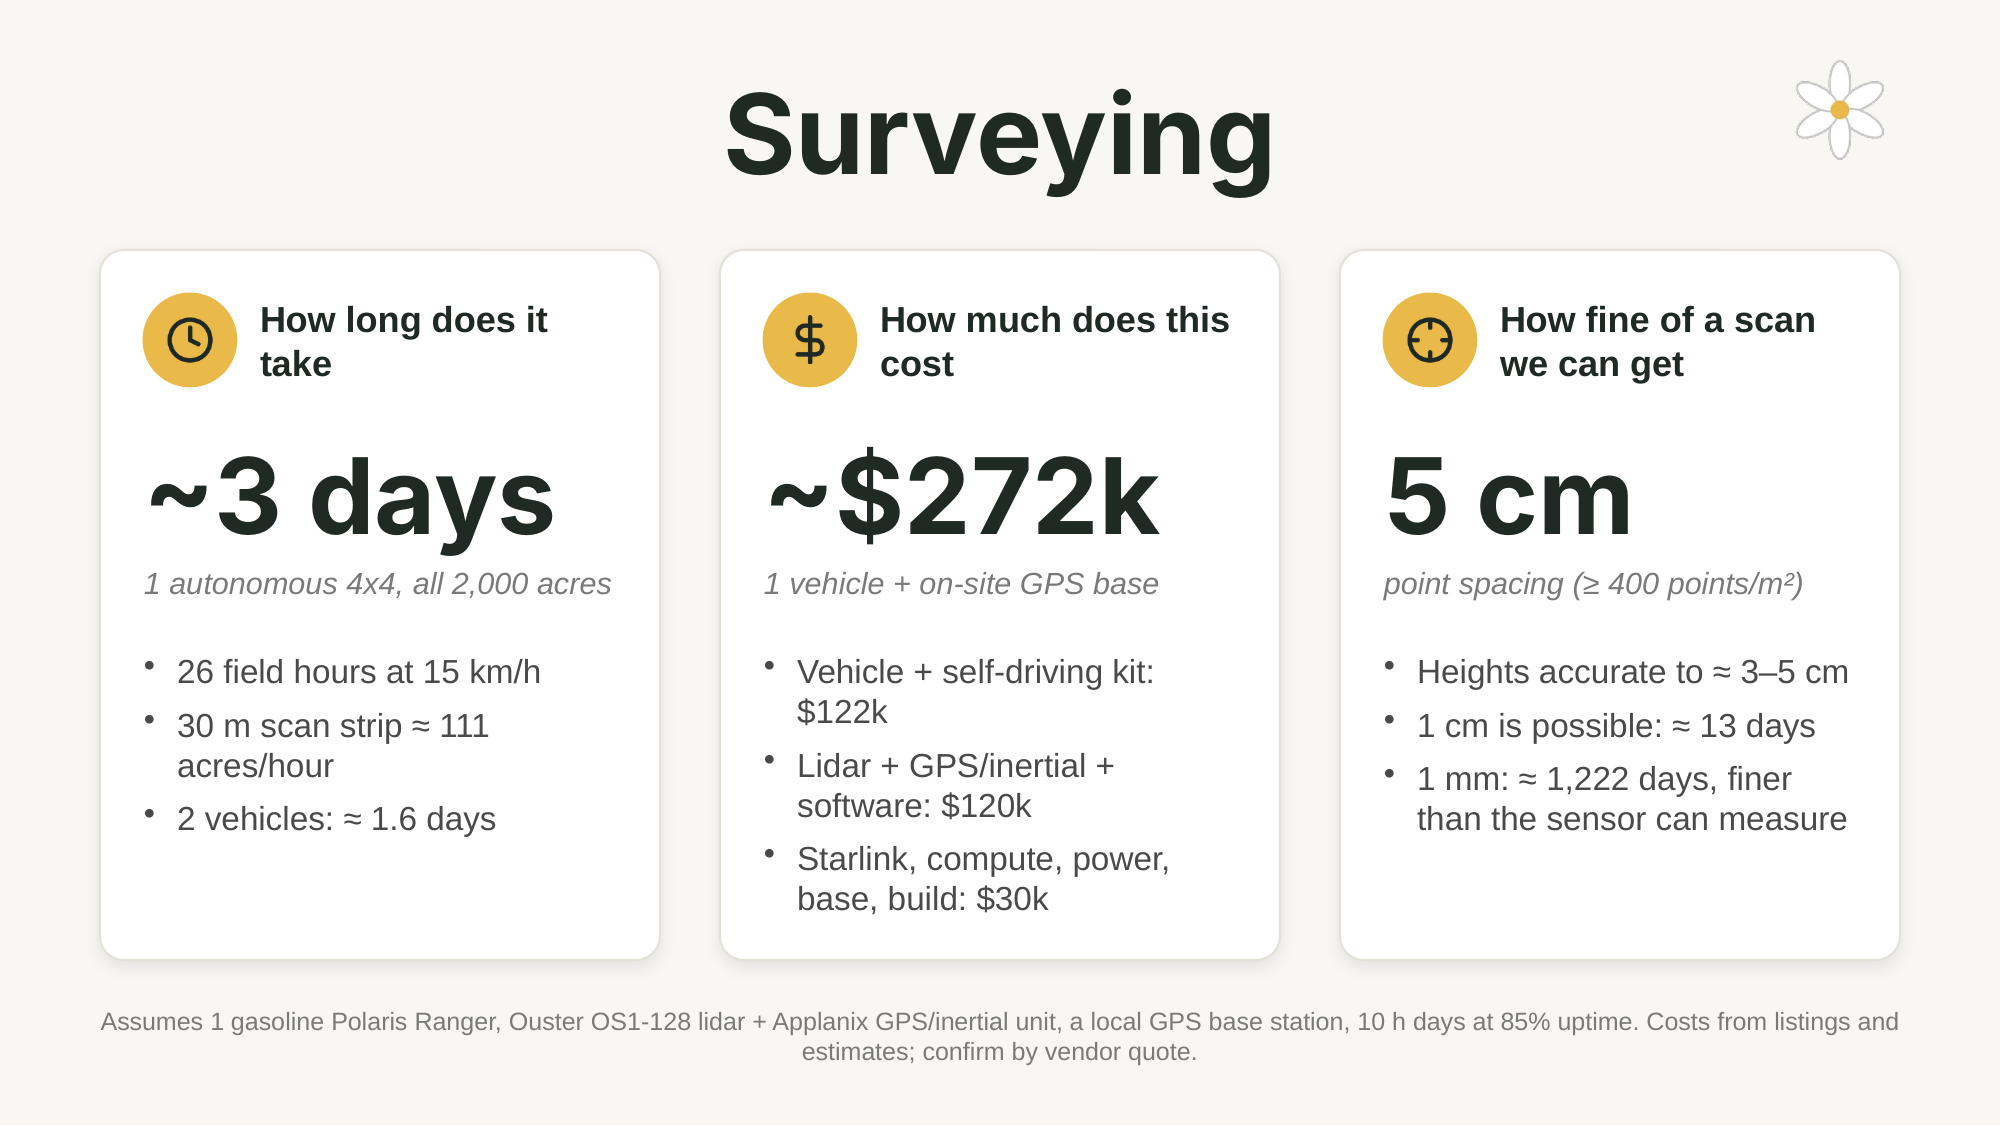
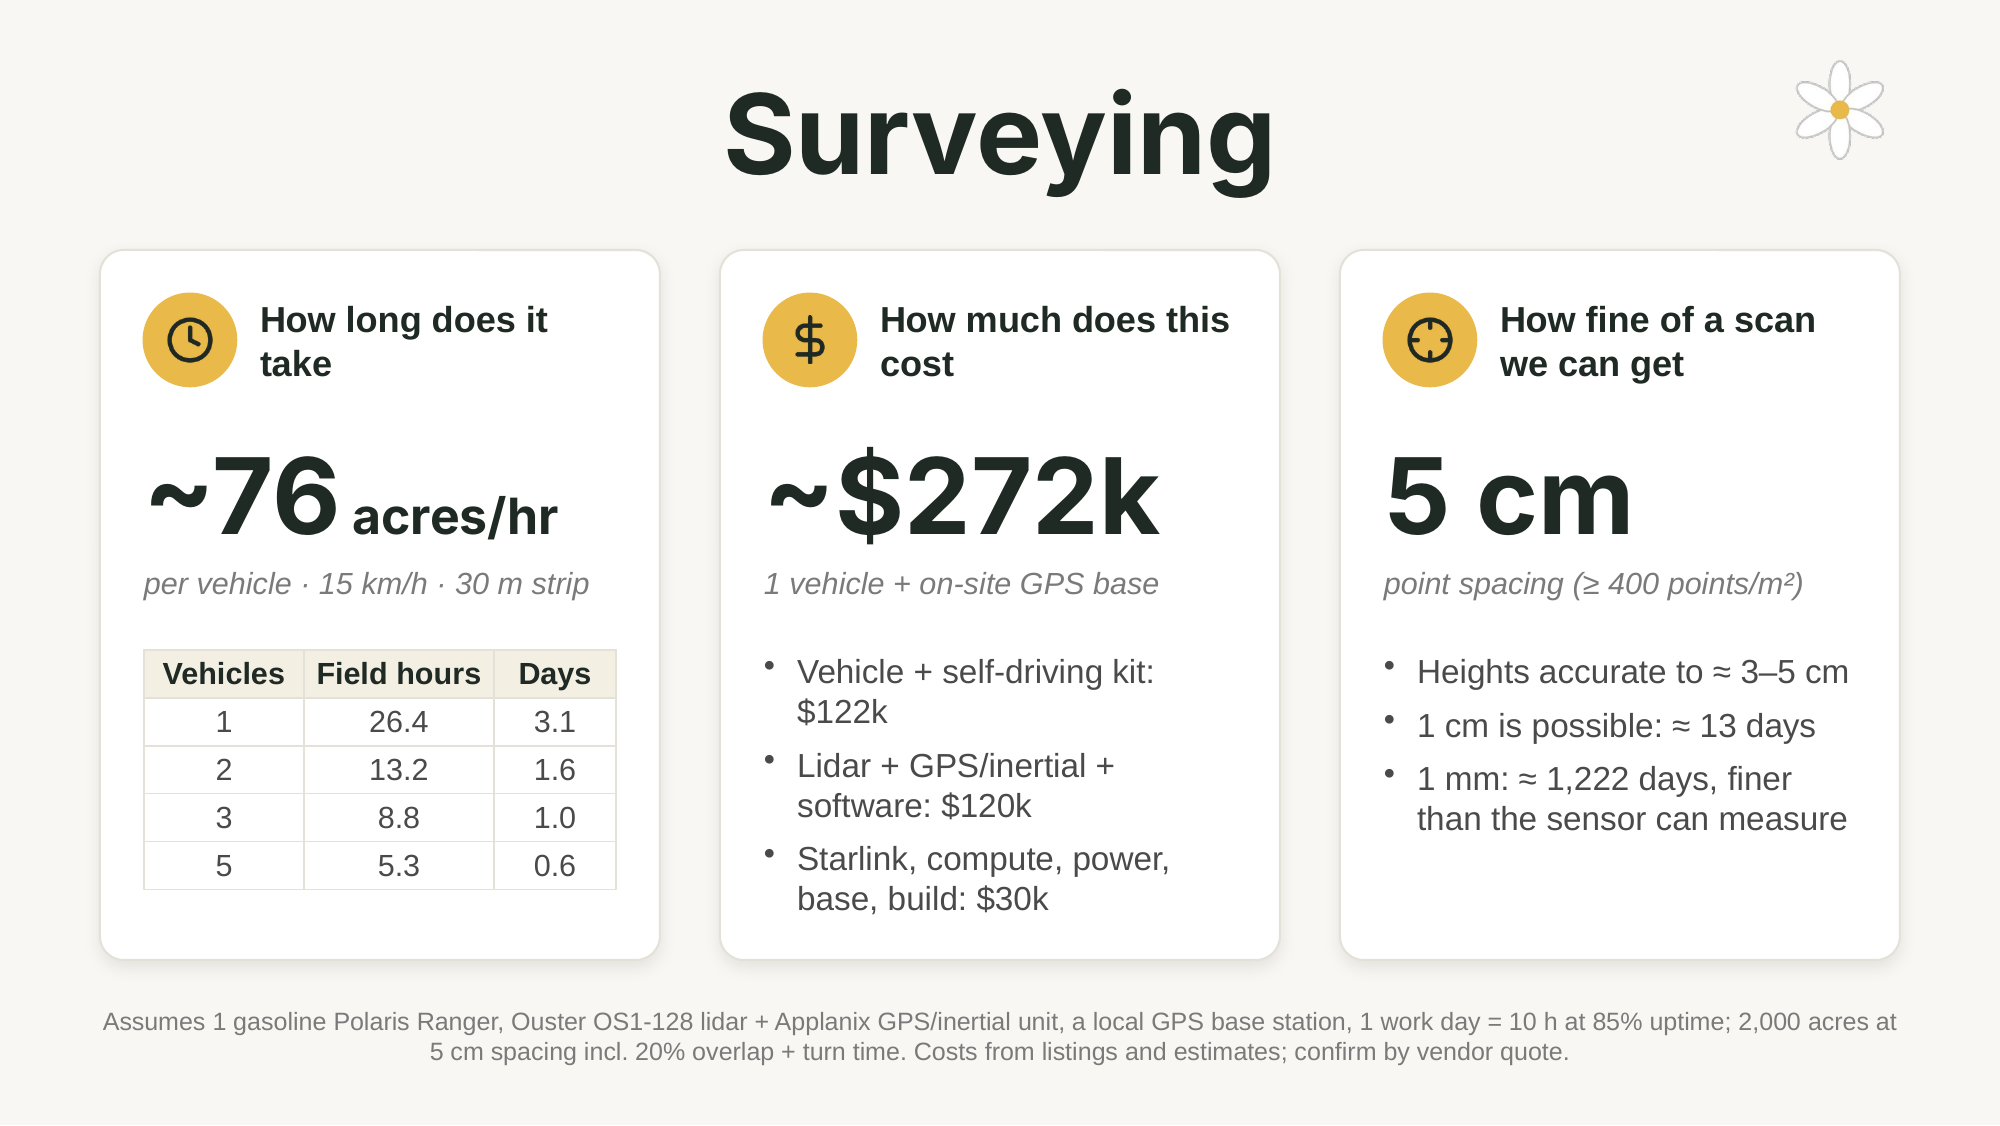
Surveying slide: show time as area rate with fleet-size table
Claude-Session: https://claude.ai/code/session_01LKCfSDF2DHA6S8rqGTMNaR

diff --git a/research/survey/slide/build_slide.js b/research/survey/slide/build_slide.js
@@ -30,8 +30,8 @@ async function daisyPng() {
   s.addImage({ data: await daisyPng(), x: 8.95, y: 0.3, w: 0.5, h: 0.5, objectName: "Daisy", altText: "Daisy logo" });
 
   const cols = [
-    { icon: FiClock, q: "How long does it take", big: "~3 days", label: "1 autonomous 4x4, all 2,000 acres",
-      lines: ["26 field hours at 15 km/h", "30 m scan strip ≈ 111 acres/hour", "2 vehicles: ≈ 1.6 days"] },
+    { icon: FiClock, q: "How long does it take", big: "~76", bigUnit: " acres/hr", label: "per vehicle · 15 km/h · 30 m strip",
+      table: [["Vehicles", "Field hours", "Days"], ["1", "26.4", "3.1"], ["2", "13.2", "1.6"], ["3", "8.8", "1.0"], ["5", "5.3", "0.6"]] },
     { icon: FiDollarSign, q: "How much does this cost", big: "~$272k", label: "1 vehicle + on-site GPS base",
       lines: ["Vehicle + self-driving kit: $122k", "Lidar + GPS/inertial + software: $120k", "Starlink, compute, power, base, build: $30k"] },
     { icon: FiCrosshair, q: "How fine of a scan we can get", big: "5 cm", label: "point spacing (≥ 400 points/m²)",
@@ -47,16 +47,25 @@ async function daisyPng() {
     s.addImage({ data: await iconPng(c.icon), x: x + pad + 0.11, y: y0 + 0.33, w: 0.24, h: 0.24, objectName: `Icon ${i + 1}`, altText: c.q });
     s.addText(c.q, { x: x + pad + 0.58, y: y0 + 0.17, w: w - 2 * pad - 0.58, h: 0.56, fontFace: "Arial", fontSize: 13, bold: true,
       color: INK, valign: "middle", margin: 0, isTextBox: true, objectName: `Question ${i + 1}` });
-    s.addText(c.big, { x: x + pad, y: y0 + 0.85, w: w - 2 * pad, h: 0.72, fontFace: "Playfair Display", fontSize: 38, bold: true,
+    const bigRuns = [{ text: c.big }].concat(c.bigUnit ? [{ text: c.bigUnit, options: { fontSize: 18 } }] : []);
+    s.addText(bigRuns, { x: x + pad, y: y0 + 0.85, w: w - 2 * pad, h: 0.72, fontFace: "Playfair Display", fontSize: 38, bold: true,
       color: INK, valign: "middle", margin: 0, isTextBox: true, objectName: `Stat ${i + 1}` });
     s.addText(c.label, { x: x + pad, y: y0 + 1.57, w: w - 2 * pad, h: 0.3, fontFace: "Arial", fontSize: 11, italic: true,
       color: MUTED, valign: "top", margin: 0, isTextBox: true, objectName: `Stat label ${i + 1}` });
+    if (c.table) {
+      const hdr = { bold: true, color: INK, fill: { color: "F3EFE3" } };
+      s.addTable(c.table.map((r, ri) => r.map(t => ({ text: t, options: ri === 0 ? hdr : {} }))),
+        { x: x + pad, y: y0 + 2.0, w: w - 2 * pad, colW: [0.8, 0.95, w - 2 * pad - 1.75], rowH: 0.24, fontFace: "Arial",
+          fontSize: 11, color: BODY, align: "center", valign: "middle", margin: 0.02,
+          border: { type: "solid", pt: 0.5, color: LINE }, objectName: "Fleet times table" });
+      continue;
+    }
     s.addText(c.lines.map((t, j) => ({ text: t, options: { bullet: { indent: 12 }, breakLine: j < c.lines.length - 1 } })),
       { x: x + pad, y: y0 + 2.0, w: w - 2 * pad, h: 1.4, fontFace: "Arial", fontSize: 12, color: BODY, valign: "top",
         margin: 0, paraSpaceAfter: 5, isTextBox: true, objectName: `Details ${i + 1}` });
   }
   s.addText("Assumes 1 gasoline Polaris Ranger, Ouster OS1-128 lidar + Applanix GPS/inertial unit, a local GPS base station, " +
-    "10 h days at 85% uptime. Costs from listings and estimates; confirm by vendor quote.",
+    "1 work day = 10 h at 85% uptime; 2,000 acres at 5 cm spacing incl. 20% overlap + turn time. Costs from listings and estimates; confirm by vendor quote.",
     { x: 0.5, y: 4.98, w: 9, h: 0.4, fontFace: "Arial", fontSize: 9, color: MUTED, align: "center", valign: "middle",
       margin: 0, isTextBox: true, objectName: "Footnote" });
 
